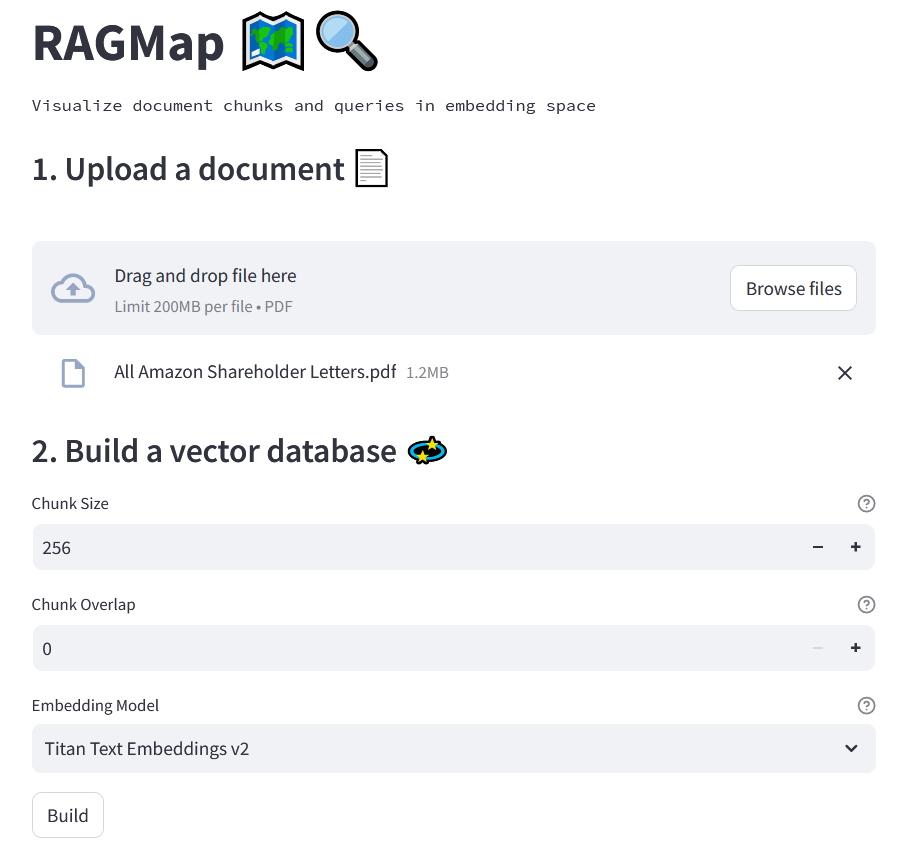
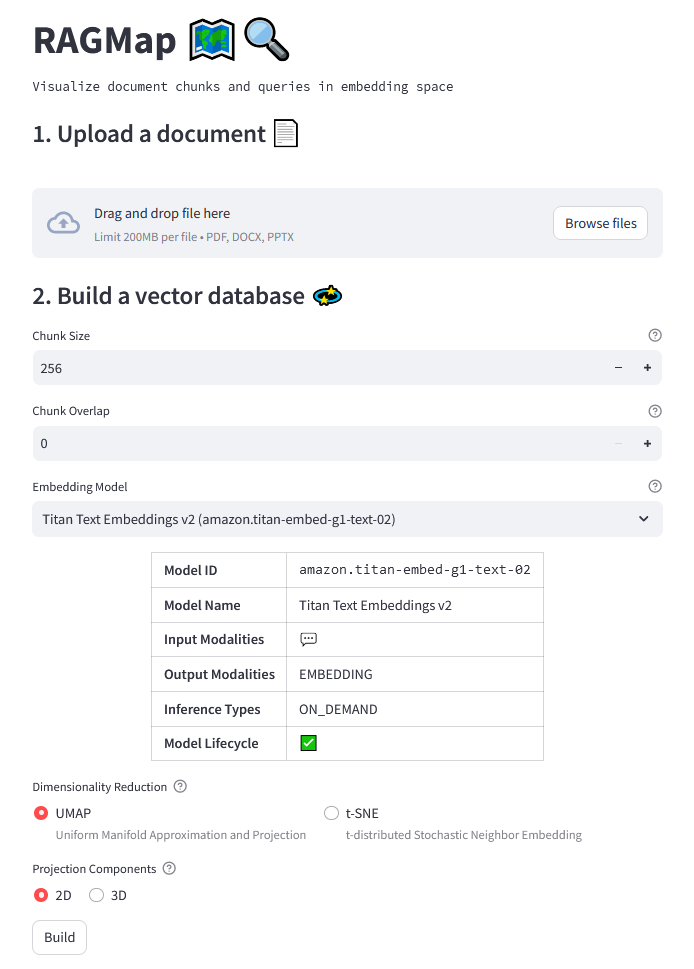
Updated docs

diff --git a/README.md b/README.md
@@ -13,18 +13,21 @@ A simple Streamlit application powered by [Amazon Bedrock](https://aws.amazon.co
 * Supports multiple document formats
 	- `PDF`
 	- `DOCX`
+	- `PPTX`
 * Supports multiple models via Amazon Bedrock
-	- Titan Text Embeddings
-	- Titan Multimodal Embeddings
-	- Cohere Embed English (*)
-	- Cohere Embed Multilingual (*)
+	- [Titan Text Embeddings](https://docs.aws.amazon.com/bedrock/latest/userguide/titan-embedding-models.html)
+	- [Titan Multimodal Embeddings](https://docs.aws.amazon.com/bedrock/latest/userguide/titan-multiemb-models.html)
+	- [Cohere Embed English](https://docs.aws.amazon.com/bedrock/latest/userguide/model-parameters-embed.html) (*)
+	- [Cohere Embed Multilingual](https://aws.amazon.com/blogs/aws/amazon-bedrock-now-provides-access-to-cohere-command-light-and-cohere-embed-english-and-multilingual-models/) (*)
 * Generates 2D and 3D projection plots
-	- UMAP
-	- t-SNE (experimental)
+	- [UMAP](https://umap-learn.readthedocs.io/en/latest/)
+	- [t-SNE](https://opentsne.readthedocs.io/en/stable/) (experimental 🧪)
 * Runs queries using natural language
-* Supports advanced retrieval techniques (HyDE, Multi Qns)
-* Exports plots as HTML
-* Exports query results as CSV
+* Support for advanced retrieval techniques
+	- HyDE
+	- Multi Qns
+* Export plots as HTML
+* Export query results as CSV
 
 (*) ☝ **Important notice:** As of January 2024, chromadb's `AmazonBedrockEmbeddingFunction` only works with Titan models. Feel free to upvote this [PR](https://github.com/chroma-core/chroma/pull/1675) to add support for [Cohere Embed models](https://docs.aws.amazon.com/bedrock/latest/userguide/model-parameters-embed.html).
 
